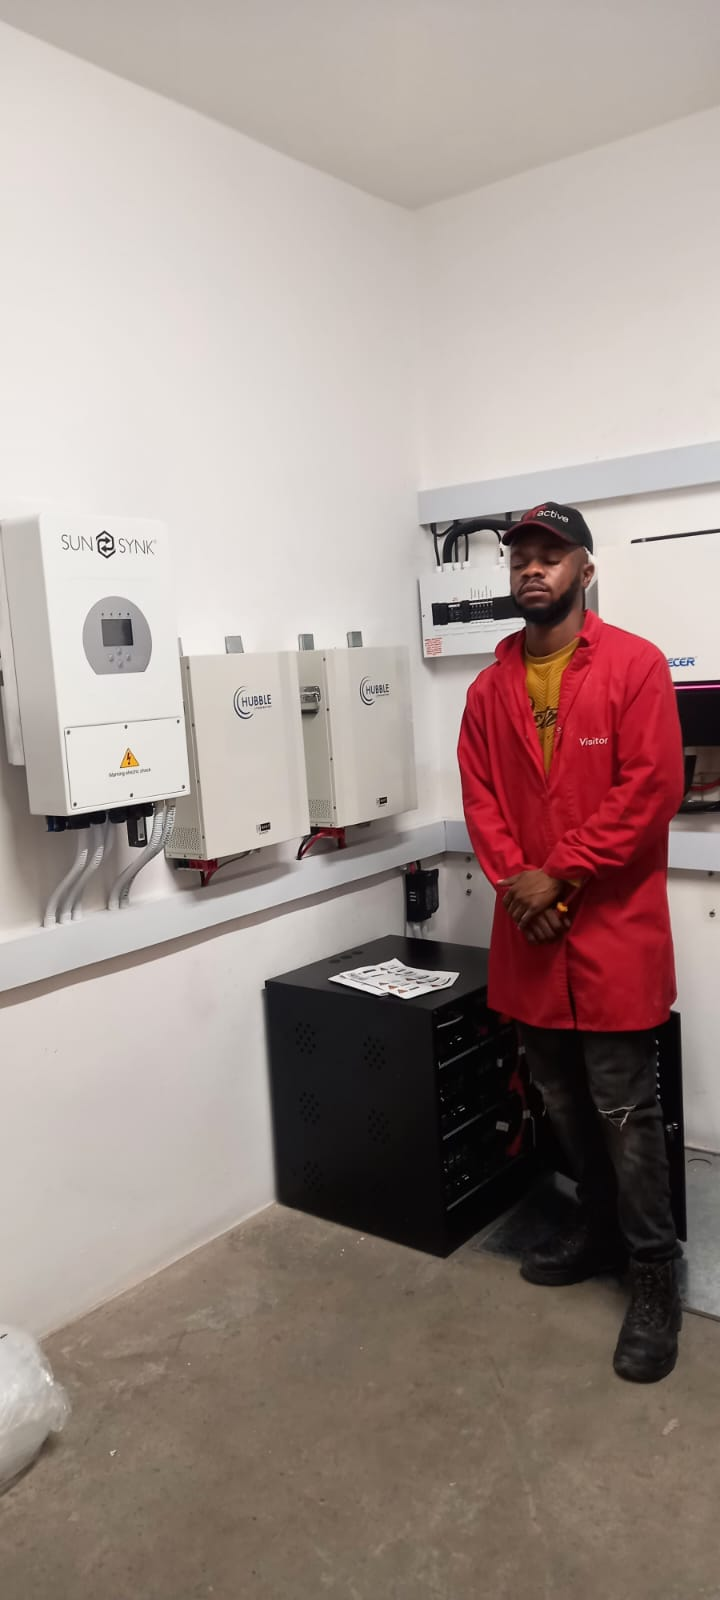
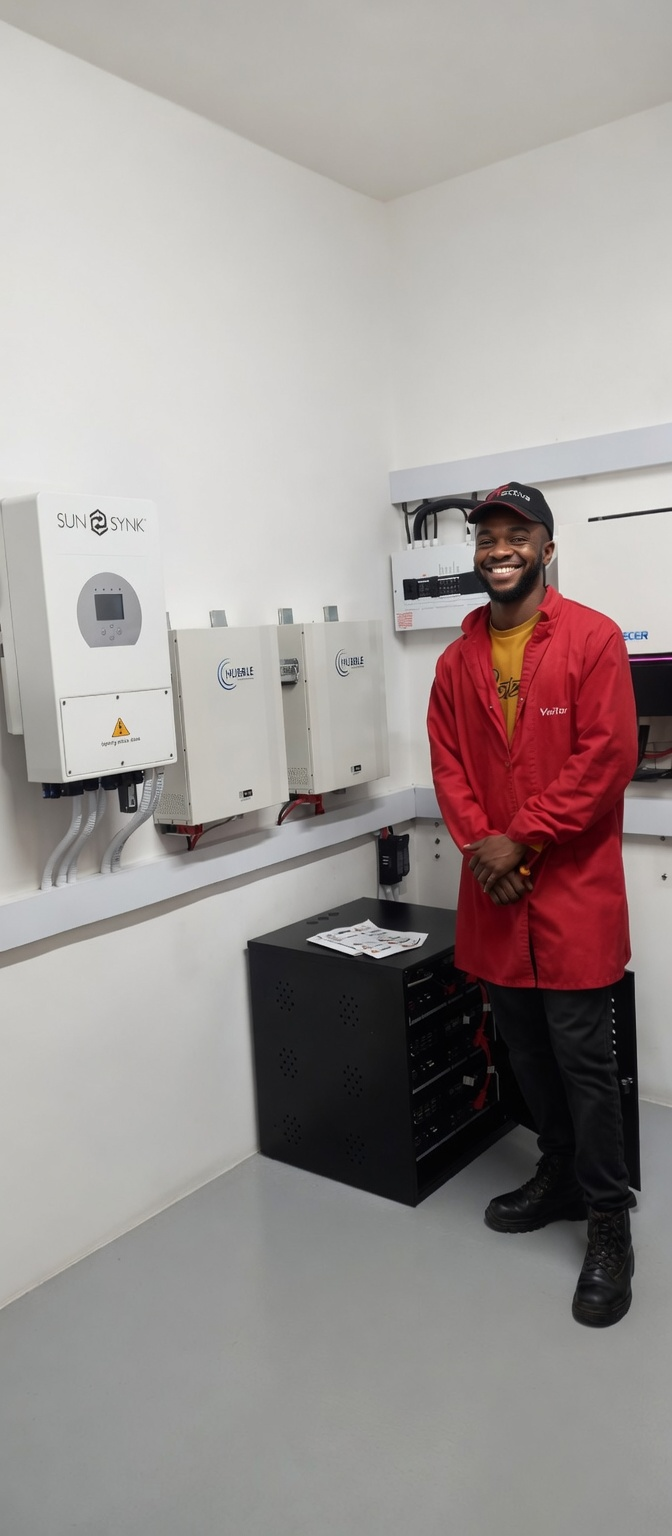
Final UI refinements and layout fixes

diff --git a/wwwroot/styles.css b/wwwroot/styles.css
@@ -1,62 +1,235 @@
-* { box-sizing: border-box; }
+/* Styles Updated - Force Cache Refresh */
+* { box-sizing: border-box; margin: 0; padding: 0; }
 
 :root {
   --primary: #0056b3;
+  --primary-light: #007bff;
   --dark: #071120;
   --dark-accent: #0b1424;
   --light: #f6f9ff;
+  --text-muted: #94a3b8;
   --border: rgba(255, 255, 255, 0.1);
   --shadow: 0 4px 12px rgba(0,0,0,0.3);
+  --radius: 12px;
 }
 
-body { font-family: 'Roboto', sans-serif; background: var(--dark); color: var(--light); margin: 0; line-height: 1.6; }
+body { 
+  font-family: 'Roboto', sans-serif; 
+  background: var(--dark); 
+  color: var(--light); 
+  line-height: 1.6; 
+  overflow-x: hidden;
+}
+
+h1, h2, h3 { font-family: 'Montserrat', sans-serif; }
+
+.page-shell { min-height: 100vh; display: flex; flex-direction: column; }
 
 /* Fixed Navigation Layout */
 .nav {
   display: flex;
   justify-content: space-between;
   align-items: center;
-  padding: 1rem 5%;
-  background: rgba(7, 17, 32, 0.95);
-  height: 90px;
+  padding: 0.75rem 5%;
+  background: rgba(7, 17, 32, 0.98);
+  min-height: 100px;
   position: sticky;
   top: 0;
   z-index: 1000;
   border-bottom: 1px solid var(--border);
+  backdrop-filter: blur(12px);
 }
 
-.brand { display: flex; align-items: center; gap: 1rem; text-decoration: none; color: inherit; }
-.brand-mark { max-width: 250px; height: 60px; }
-.brand-mark img { height: 100%; width: auto; object-fit: contain; }
-.brand-title { font-size: 1.25rem; font-weight: 800; }
+.brand { display: flex; align-items: center; gap: 1.5rem; text-decoration: none; color: inherit; flex-shrink: 0; margin-right: 2rem; }
+.brand-mark { max-width: 150px; height: 65px; display: flex; align-items: center; background: white; padding: 5px; border-radius: 8px; }
+.brand-mark img { max-height: 100%; width: auto; object-fit: contain; }
 
-/* Hero Section Fixes */
-.hero { padding: 4rem 5% 3rem; background: linear-gradient(135deg, #071120, #0056b3); position: relative; }
-.hero-grid { display: grid; grid-template-columns: 1fr 1fr; gap: 2rem; align-items: start; }
+.nav-actions { display: flex; gap: 1rem; align-items: center; order: 3; }
+.nav-links { display: flex; gap: 2rem; align-items: center; margin-left: auto; margin-right: 3rem; order: 2; }
+.nav-links a { text-decoration: none; color: #cbd5e1; font-weight: 600; font-size: 0.95rem; transition: color 0.2s; white-space: nowrap; }
+.nav-links a:hover { color: var(--primary-light); }
+
+.button {
+  padding: 0.75rem 1.5rem;
+  border-radius: 8px;
+  font-weight: 700;
+  text-decoration: none;
+  display: inline-block;
+  transition: transform 0.2s, background 0.2s, box-shadow 0.2s;
+  cursor: pointer;
+  border: none;
+  background: var(--primary);
+  color: white;
+  text-align: center;
+}
+.button:hover { transform: translateY(-2px); background: var(--primary-light); box-shadow: 0 4px 12px rgba(0, 86, 179, 0.4); }
+.button-secondary { background: rgba(255,255,255,0.05); border: 1px solid var(--border); }
+.button-secondary:hover { background: rgba(255,255,255,0.1); }
+
+/* Hero Section */
+.hero { 
+  padding: 4rem 5%; 
+  background: linear-gradient(rgba(7, 17, 32, 0.7), rgba(7, 17, 32, 0.7)), 
+              url('/Gallery/2.jpeg') center/cover no-repeat;
+  position: relative; 
+  min-height: calc(100vh - 90px);
+  display: flex;
+  align-items: center;
+}
+
+.hero-grid { 
+  display: grid; 
+  grid-template-columns: 1fr 1fr; 
+  gap: 4rem; 
+  align-items: center;
+  max-width: 1400px;
+  margin: 0 auto;
+  width: 100%;
+}
 
 .hero-copy {
-  padding: 2.5rem;
-  background: rgba(0, 0, 0, 0.4);
-  border-radius: 16px;
-  border: 1px solid rgba(255, 255, 255, 0.1);
+  padding: 0;
+  background: none;
+  border-radius: 0;
+  border: none;
+  box-shadow: none;
+  backdrop-filter: none;
+}
+
+.hero-badges { display: flex; gap: 0.5rem; margin-bottom: 2rem; flex-wrap: wrap; }
+.hero-badges span { 
+  background: var(--primary); 
+  color: white; 
+  padding: 6px 14px; 
+  border-radius: 100px; 
+  font-size: 0.75rem; 
+  font-weight: 700;
+  box-shadow: 0 4px 10px rgba(0,0,0,0.3);
 }
 
 .hero-title {
   color: #ffffff;
-  font-size: clamp(2rem, 5vw, 3.5rem);
+  font-size: clamp(2.5rem, 6vw, 4.2rem);
   line-height: 1.1;
-  word-wrap: break-word;
-  text-shadow: 0 2px 6px rgba(0,0,0,0.8);
-  margin-bottom: 1.5rem;
+  margin-bottom: 2rem;
+  font-weight: 800;
+  letter-spacing: -0.03em;
+  text-shadow: 0 4px 20px rgba(0,0,0,0.5);
 }
 
-/* General Layouts */
-.section { padding: 3rem 5%; max-width: 1200px; margin: auto; }
-.card { padding: 1.5rem; background: var(--dark-accent); border: 1px solid var(--border); border-radius: 12px; }
+.intro { font-size: 1.25rem; color: #f1f5f9; margin-bottom: 3rem; max-width: 700px; line-height: 1.6; }
+
+.hero-actions { display: flex; gap: 1.5rem; margin-bottom: 4rem; }
+
+.hero-metrics {
+  display: grid;
+  grid-template-columns: repeat(3, 1fr);
+  gap: 2rem;
+  padding-top: 2.5rem;
+  border-top: 1px solid rgba(255,255,255,0.1);
+}
+.hero-metrics strong { display: block; font-size: 1.2rem; color: #fff; margin-bottom: 6px; }
+.hero-metrics span { font-size: 0.85rem; color: #94a3b8; font-weight: 500; }
+
+/* Hero Panel (Right side) */
+.hero-panel { display: grid; gap: 2rem; grid-template-columns: 1fr; align-self: end; padding-bottom: 2rem; }
+.hero-media {
+  background: var(--dark-accent);
+  border-radius: 24px;
+  overflow: hidden;
+  border: 1px solid rgba(255,255,255,0.15);
+  position: relative;
+  box-shadow: 0 25px 50px -12px rgba(0,0,0,0.6);
+}
+.hero-photo { height: 380px; background: linear-gradient(transparent, rgba(0,0,0,0.9)), url('/Gallery/1.jpeg') center/cover; display: flex; flex-direction: column; justify-content: flex-end; padding: 2.5rem; }
+.hero-media-badge { position: absolute; top: 1.5rem; left: 1.5rem; background: var(--primary); padding: 6px 14px; border-radius: 8px; font-size: 0.8rem; font-weight: 700; box-shadow: 0 4px 10px rgba(0,0,0,0.3); }
+.hero-media-copy h2 { font-size: 1.8rem; margin-bottom: 0.5rem; color: #fff; }
+.hero-media-copy p { font-size: 1rem; color: #cbd5e1; }
+
+.mini-panel {
+  padding: 2rem;
+  background: rgba(255,255,255,0.03);
+  border-radius: 24px;
+  border: 1px solid rgba(255,255,255,0.1);
+  backdrop-filter: blur(8px);
+}
+.mini-label { font-size: 0.75rem; color: var(--primary-light); font-weight: 800; text-transform: uppercase; margin-bottom: 12px; display: block; letter-spacing: 0.1em; }
+.mini-panel strong { font-size: 1.3rem; line-height: 1.3; display: block; margin-bottom: 8px; color: #fff; }
+.mini-panel p { color: #94a3b8; font-size: 0.95rem; }
+
+/* General Sections */
+.section { padding: 8rem 5%; max-width: 1400px; margin: 0 auto; }
+.section-heading { margin-bottom: 5rem; max-width: 900px; }
+.section-heading h2 { font-size: 3rem; margin-bottom: 1.5rem; color: #fff; letter-spacing: -0.02em; }
+.section-heading .eyebrow { margin-bottom: 12px; display: block; }
+
+.card-grid { display: grid; grid-template-columns: repeat(auto-fit, minmax(320px, 1fr)); gap: 2.5rem; }
+.card { padding: 2.5rem; background: var(--dark-accent); border: 1px solid var(--border); border-radius: 24px; transition: all 0.3s cubic-bezier(0.4, 0, 0.2, 1); }
+.card:hover { transform: translateY(-12px); border-color: var(--primary); box-shadow: 0 20px 40px rgba(0,0,0,0.4); }
+
+/* Gallery Section */
+.gallery-grid { display: grid; grid-template-columns: repeat(4, 1fr); grid-template-rows: repeat(2, 280px); gap: 1.5rem; }
+.mock-image { border-radius: 20px; overflow: hidden; position: relative; background: #1e293b; border: 1px solid rgba(255,255,255,0.05); }
+.mock-image.tall { grid-row: span 2; }
+.mock-image.wide { grid-column: span 2; }
+.mock-overlay { position: absolute; inset: 0; background: linear-gradient(transparent, rgba(0,0,0,0.9)); padding: 2rem; display: flex; flex-direction: column; justify-content: flex-end; opacity: 0.9; transition: opacity 0.3s; }
+.mock-image:hover .mock-overlay { opacity: 1; }
+.mock-overlay span { font-size: 0.8rem; font-weight: 700; color: var(--primary-light); text-transform: uppercase; margin-bottom: 8px; }
+.mock-overlay h3 { font-size: 1.4rem; color: #fff; line-height: 1.2; }
+
+/* Mock Photo Placements */
+.photo-solar { background: url('https://images.unsplash.com/photo-1509391366360-2e959784a276?auto=format&fit=crop&w=1200&q=80') center/cover; }
+.photo-fault { background: url('https://images.unsplash.com/photo-1621905252507-b35492cc74b4?auto=format&fit=crop&w=1200&q=80') center/cover; }
+.photo-commercial { background: url('https://images.unsplash.com/photo-1497366754035-f200968a6e72?auto=format&fit=crop&w=1200&q=80') center/cover; }
+.photo-van { background: url('https://images.unsplash.com/photo-1517048676732-d65bc937f952?auto=format&fit=crop&w=1400&q=80') center/cover; }
+
+/* Finder Section */
+.finder { background: var(--dark-accent); padding: 4rem; border-radius: 32px; border: 1px solid var(--border); box-shadow: 0 30px 60px rgba(0,0,0,0.4); }
+.finder-options { display: flex; gap: 1.5rem; margin-bottom: 4rem; }
+.tier-button { flex: 1; padding: 2rem; background: rgba(255,255,255,0.03); border: 1px solid var(--border); border-radius: 20px; color: #fff; cursor: pointer; text-align: left; transition: all 0.2s; }
+.tier-button:hover { background: rgba(255,255,255,0.06); border-color: var(--primary); }
+.tier-button.active { background: var(--primary); border-color: var(--primary-light); transform: scale(1.02); box-shadow: 0 10px 30px rgba(0, 86, 179, 0.4); }
+.tier-button span { display: block; font-size: 0.9rem; color: rgba(255,255,255,0.7); margin-top: 8px; }
+
+/* Service Grid */
+.service-grid { display: grid; grid-template-columns: repeat(3, 1fr); gap: 2.5rem; }
+.service-card { padding: 3rem; background: var(--dark-accent); border: 1px solid var(--border); border-radius: 24px; }
+.service-card.emergency { background: linear-gradient(135deg, #7f1d1d, #450a0a); border-color: #991b1b; }
+.service-card h3 { font-size: 1.8rem; margin-bottom: 1rem; color: #fff; }
+.service-card ul { list-style: none; margin-top: 2rem; display: grid; gap: 0.75rem; }
+.service-card li { display: flex; align-items: center; gap: 12px; font-size: 1rem; color: #cbd5e1; }
+.service-card li::before { content: "→"; color: var(--primary-light); font-weight: 900; }
 
 /* Responsive */
+.menu-toggle { display: none; flex-direction: column; gap: 6px; background: none; border: none; cursor: pointer; padding: 10px; }
+.menu-toggle span { display: block; width: 28px; height: 3px; background: #fff; transition: 0.3s; border-radius: 2px; }
+
+.d-none-mobile { display: flex; }
+.d-only-mobile { display: none; }
+
+@media (max-width: 1200px) {
+  .hero-grid { grid-template-columns: 1fr; text-align: center; gap: 4rem; }
+  .hero-copy { display: flex; flex-direction: column; align-items: center; }
+  .intro { margin-left: auto; margin-right: auto; }
+  .hero-actions { justify-content: center; }
+  .hero-metrics { max-width: 800px; width: 100%; margin: 0 auto; }
+  .hero-panel { max-width: 600px; margin: 0 auto; width: 100%; }
+}
+
 @media (max-width: 860px) {
-  .hero-grid { grid-template-columns: 1fr; }
-  .nav { padding: 1rem 1.25rem; }
-  .brand-copy { display: none; }
+  .d-none-mobile { display: none !important; }
+  .d-only-mobile { display: flex !important; }
+  .nav { padding: 0.5rem 5%; height: 80px; min-height: 80px; }
+  .nav-links { display: none; position: absolute; top: 100%; left: 0; right: 0; background: var(--dark); flex-direction: column; padding: 2.5rem; border-bottom: 1px solid var(--border); margin: 0; }
+  .nav-links.is-open { display: flex; }
+  .menu-toggle { display: flex; }
+  .d-none-mobile { display: none; }
+  .service-grid { grid-template-columns: 1fr; }
+  .hero-metrics { grid-template-columns: 1fr; gap: 1.5rem; text-align: center; }
+  .gallery-grid { grid-template-columns: 1fr; grid-template-rows: auto; }
+  .gallery-grid > * { grid-column: span 1 !important; grid-row: span 1 !important; height: 350px; }
+  .finder { padding: 2rem; }
+  .finder-options { flex-direction: column; }
+  .section-heading h2 { font-size: 2.2rem; }
+  .hero-title { font-size: 2.8rem; }
 }

diff --git a/wwwroot/index.html b/wwwroot/index.html
@@ -15,11 +15,11 @@
       rel="stylesheet"
     />
     <link rel="stylesheet" href="styles.css" />
-    <meta http-equiv="Content-Security-Policy" content="default-src 'self'; script-src 'self' 'unsafe-inline' 'unsafe-eval' https://www.googletagmanager.com https://www.google-analytics.com https://challenges.cloudflare.com https://static.cloudflareinsights.com; script-src-elem 'self' 'unsafe-inline' https://www.googletagmanager.com https://challenges.cloudflare.com https://static.cloudflareinsights.com; style-src 'self' 'unsafe-inline' https://fonts.googleapis.com; font-src 'self' https://fonts.gstatic.com; img-src 'self' data: https://www.google-analytics.com; connect-src 'self' https://www.google-analytics.com https://static.cloudflareinsights.com; frame-src 'self' https://challenges.cloudflare.com;">
+    <!-- CSP Updated to allow Unsplash Images -->
+    <meta http-equiv="Content-Security-Policy" content="default-src 'self'; script-src 'self' 'unsafe-inline' 'unsafe-eval' https://www.googletagmanager.com https://www.google-analytics.com https://challenges.cloudflare.com https://static.cloudflareinsights.com; script-src-elem 'self' 'unsafe-inline' https://www.googletagmanager.com https://challenges.cloudflare.com https://static.cloudflareinsights.com; style-src 'self' 'unsafe-inline' https://fonts.googleapis.com; font-src 'self' https://fonts.gstatic.com; img-src 'self' data: https://www.google-analytics.com https://images.unsplash.com; connect-src 'self' https://www.google-analytics.com https://static.cloudflareinsights.com; frame-src 'self' https://challenges.cloudflare.com;">
   </head>
   <body>
     <div class="page-shell">
-    <header class="hero">
       <nav class="nav">
         <a class="brand" href="/" aria-label="MLB Electrical home">
           <div class="brand-mark">
@@ -50,13 +50,15 @@
         <div class="nav-links" id="primary-nav">
           <a href="/login" class="d-only-mobile">Portal Login</a>
           <a href="https://wa.me/27670606503" class="d-only-mobile">WhatsApp Benny</a>
+          <a href="tel:+27670606503" class="d-only-mobile">Call Benny</a>
           <a href="mailto:[email redacted]">Email Us</a>
-          <a href="#backup-finder">Backup</a>
+          <a href="#backup-finder">Solar & Backup</a>
           <a href="#services">Services</a>
           <a href="#contact">Contact</a>
         </div>
       </nav>
 
+    <header class="hero">
       <div class="hero-grid">
         <section class="hero-copy">
           <div class="hero-badges">
@@ -185,20 +187,7 @@
         </div>
       </section>
 
-      <section class="section trust-strip">
-        <div class="trust-card">
-          <span class="trust-label">Ideal hero image</span>
-          <strong>Signature solar installation or branded service vehicle on-site</strong>
-        </div>
-        <div class="trust-card">
-          <span class="trust-label">Fast-track opportunity</span>
-          <strong>Property transfer COCs for homeowners, conveyancers, and agents</strong>
-        </div>
-        <div class="trust-card">
-          <span class="trust-label">Search intent</span>
-          <strong>“Electrician near me” supported by suburb-specific service messaging</strong>
-        </div>
-      </section>
+      
 
       <section id="backup-finder" class="section accent-section">
         <div class="section-heading">

diff --git a/Program.cs b/Program.cs
@@ -649,6 +649,7 @@ public const string LoginPageHtml = """
 <head>
   <meta charset="utf-8" />
   <meta name="viewport" content="width=device-width,initial-scale=1" />
+  <meta http-equiv="Content-Security-Policy" content="default-src 'self'; script-src 'self' 'unsafe-inline' 'unsafe-eval'; style-src 'self' 'unsafe-inline' https://fonts.googleapis.com; font-src 'self' https://fonts.gstatic.com; img-src 'self' data: https://images.unsplash.com; connect-src 'self';">
   <title>MLB Portal Login</title>
   <style>
     body{font-family:Arial,sans-serif;background:#081326;color:#e8f0ff;display:grid;place-items:center;min-height:100vh;margin:0}
@@ -736,6 +737,7 @@ public const string OnboardingPageHtml = """
 <head>
   <meta charset="utf-8" />
   <meta name="viewport" content="width=device-width,initial-scale=1" />
+  <meta http-equiv="Content-Security-Policy" content="default-src 'self'; script-src 'self' 'unsafe-inline' 'unsafe-eval'; style-src 'self' 'unsafe-inline' https://fonts.googleapis.com; font-src 'self' https://fonts.gstatic.com; img-src 'self' data: https://images.unsplash.com; connect-src 'self';">
   <title>Welcome to MLB | Setup Your Profile</title>
   <style>
     body{font-family:'Inter',system-ui,sans-serif;background:#0f172a;color:#f8fafc;display:grid;place-items:center;min-height:100vh;margin:0}
@@ -802,6 +804,7 @@ public const string OwnerDashboardHtml = """
 <head>
   <meta charset="utf-8" />
   <meta name="viewport" content="width=device-width,initial-scale=1" />
+  <meta http-equiv="Content-Security-Policy" content="default-src 'self'; script-src 'self' 'unsafe-inline' 'unsafe-eval'; style-src 'self' 'unsafe-inline' https://fonts.googleapis.com; font-src 'self' https://fonts.gstatic.com; img-src 'self' data: https://images.unsplash.com; connect-src 'self';">
   <title>Owner Management | MLB</title>
   <style>
     :root { --bg: #0f172a; --card: #1e293b; --border: #334155; --text: #f8fafc; --muted: #94a3b8; --primary: #3b82f6; --success: #22c55e; --danger: #ef4444; --warning: #f59e0b; }
@@ -1491,6 +1494,7 @@ public const string OwnerDashboardHtml = """
     <head>
     <meta charset="utf-8" />
     <meta name="viewport" content="width=device-width,initial-scale=1" />
+    <meta http-equiv="Content-Security-Policy" content="default-src 'self'; script-src 'self' 'unsafe-inline' 'unsafe-eval'; style-src 'self' 'unsafe-inline' https://fonts.googleapis.com; font-src 'self' https://fonts.gstatic.com; img-src 'self' data: https://images.unsplash.com; connect-src 'self';">
     <title>User Dashboard | MLB</title>
     <style>
     :root { --bg: #f8fafc; --card: #ffffff; --border: #e2e8f0; --text: #1e293b; --muted: #64748b; --primary: #3b82f6; }